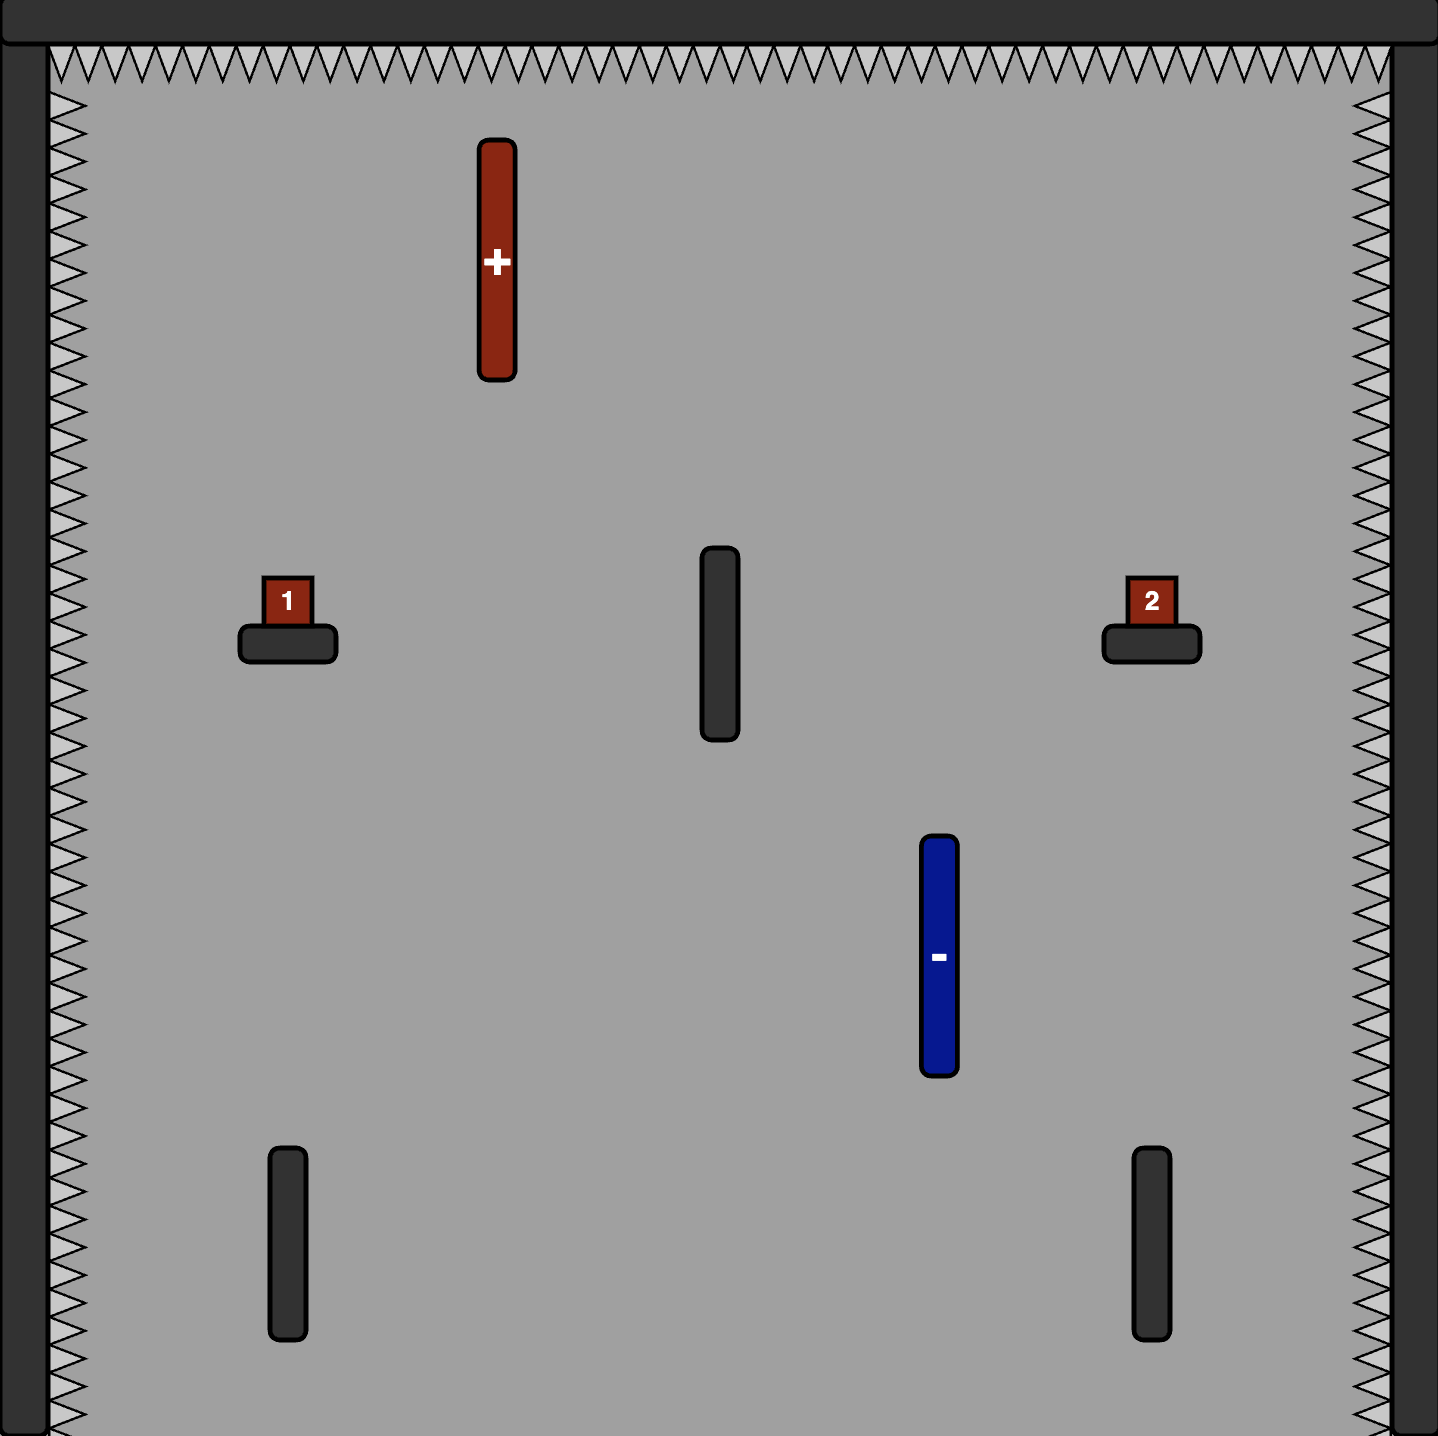
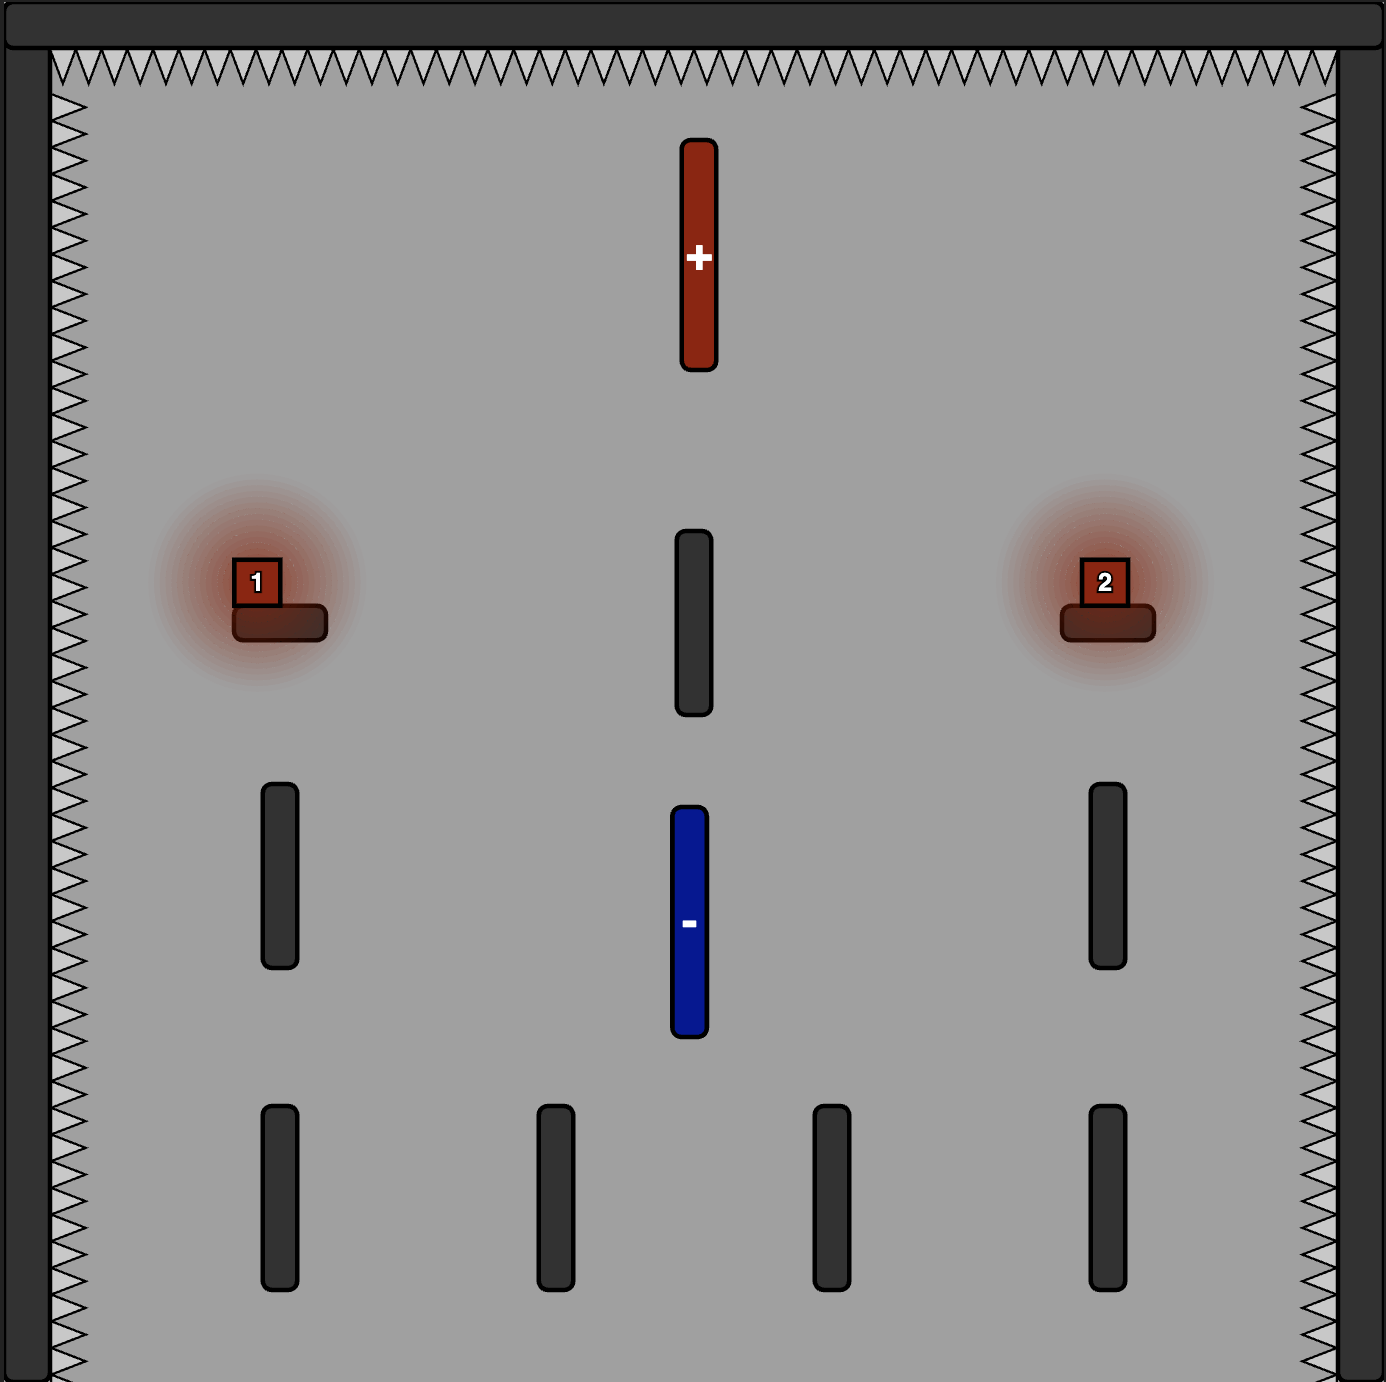
new map, background image, fixes

diff --git a/classes/maps/Charge_Chamber.js b/classes/maps/Charge_Chamber.js
@@ -1,0 +1,49 @@
+class Charge_Chamber extends Map {
+    constructor() {
+        super();
+        this.p1SpawnX = 120;
+        this.p1SpawnY = 540;
+        this.p2SpawnX = 480;
+        this.p2SpawnY = 540;
+        this.mapName = "Charge Chamber";
+        this.imgPath = "assets/Charge_Chamber.png";
+        this.openPowerUpLocs = [
+            [300, 120],
+            [300, 455]
+        ];
+        this.filledPowerUpLocs = [];
+    }
+
+    addElements(platforms, spikes, polarElements) {
+
+        // Borders
+        append(platforms, new Platform(10, 300, 20, 600, 0));
+        append(platforms, new Platform(590, 300, 20, 600, 0));
+        append(platforms, new Platform(300, 10, 600, 20, 0));
+
+        // Ground platforms
+        append(platforms, new Platform(120, 560, 140, 20, 0));
+        append(platforms, new Platform(480, 560, 140, 20, 0));
+        append(platforms, new Platform(300, 560, 140, 20, 0));
+
+        // Crossing polarity pair
+        let pL = new Platform(200, 300, 160, 20, 1);
+        let pR = new Platform(400, 300, 160, 20, -1);
+
+        append(platforms, pL);
+        append(platforms, pR);
+        append(polarElements, pL);
+        append(polarElements, pR);
+
+        // spike platform
+        append(platforms, new Platform(300, 410, 120, 45, 0));
+
+        // Raised side platforms
+        append(platforms, new Platform(120, 180, 120, 20, 0));
+        append(platforms, new Platform(480, 180, 120, 20, 0));
+
+        append(spikes, new Spikes(300, 438, 120, 15, 4, 0, 2, color(255)));
+        append(spikes, new Spikes(300, 382, 120, 15, 4, 0, 0, color(255)));
+        
+    }
+}

diff --git a/classes/scenes/GameScene.js b/classes/scenes/GameScene.js
@@ -36,6 +36,8 @@ class GameScene extends Scene {
     append(this.polarElements, this.plr1);
     append(this.polarElements, this.plr2);
 
+    this.backgroundImg = loadImage("assets/BackgroundImg.png");
+
     this.map.addElements(this.platforms, this.spikes, this.polarElements);
     // create objects
     
@@ -46,6 +48,7 @@ class GameScene extends Scene {
     if(this.paused) {
       // pause menu
       updateAndDrawElements(this.UIElements, true, this);
+      if(this.exit) {return new TitleScene(this.audioController);}
       return;
     }
 
@@ -98,16 +101,19 @@ class GameScene extends Scene {
     }
 
     updateAndDrawElements(this.UIElements, true, this);
-
-    if(this.exit) {return new TitleScene(this.audioController);}
   }
   
   drawArena() {
     // TODO: better design?
-    background(200, 0, 0);
-    fill(160);
+    image(this.backgroundImg, -200, 0, 1000, 600);
+    fill(0, 0, 0,  100);
+    rect(300, 300, 600, 600);
     strokeWeight(0);
-    rect(300, 300, this.fieldSize, this.fieldSize);
+    fill(255, 0, 0, 198);
+    rect(0, 300, (600 - this.fieldSize), 600);
+    rect(600, 300, (600 - this.fieldSize), 600);
+    rect(300, 0, this.fieldSize, (600 - this.fieldSize));
+    rect(300, 600, this.fieldSize, (600 - this.fieldSize));
     
   }
 

diff --git a/classes/maps/Pillars.js b/classes/maps/Pillars.js
@@ -34,7 +34,7 @@ class Pillars extends Map {
         append(platformsArr, spawn2);
 
         let pillar1 = new Platform(120, 110, 15, 100, 1, true, [120, 110, 480, 110, 500, 1]);
-        let pillar2 = new Platform(480, 400, 15, 100, -1, true, [120, 400, 480, 400, 500, 2]);
+        let pillar2 = new Platform(460, 400, 15, 100, -1, true, [140, 400, 460, 400, 500, 2]);
         append(platformsArr, pillar1);
         append(platformsArr, pillar2);
         append(polarElementsArr, pillar1);
@@ -43,6 +43,13 @@ class Pillars extends Map {
         append(platformsArr, new Platform(300, 270, 15, 80, 0));
         append(platformsArr, new Platform(120, 520, 15, 80, 0));
         append(platformsArr, new Platform(480, 520, 15, 80, 0));
+
+        append(platformsArr, new Platform(240, 520, 15, 80, 0));
+        append(platformsArr, new Platform(360, 520, 15, 80, 0));
+
+        append(platformsArr, new Platform(120, 380, 15, 80, 0));
+        append(platformsArr, new Platform(480, 380, 15, 80, 0));
+
  
 
     }

diff --git a/classes/TransitionManager.js b/classes/TransitionManager.js
@@ -1,12 +1,12 @@
 class TransitionManager {
-    constructor(scene) {
+    constructor(audioController) {
         this.active = false;
         this.progress = 0;        // 0 → 1
         this.speed = 0.02;        // slide speed
         this.shakeTime = 0;
         this.shakeDuration = 67;
         this.onComplete = null;
-        this.scene = scene;
+        this.audioController = audioController;
     }
 
     start(callback) {
@@ -25,7 +25,7 @@ class TransitionManager {
         // Trigger shake on collision
         if (this.progress >= 1 && this.shakeTime === 0) {
             this.shakeTime = this.shakeDuration;
-            this.scene.audioController.playScreenTransitionSound();
+            this.audioController.playScreenTransitionSound();
             if (this.onComplete) this.onComplete();
         }
 

diff --git a/classes/scenes/TitleScene.js b/classes/scenes/TitleScene.js
@@ -20,7 +20,7 @@ class TitleScene extends Scene {
 
     this.audioController.init();
 
-    this.volumeSlider = createSlider(0, 1, 0.75, 0); 
+    this.volumeSlider = createSlider(0, 1, this.audioController.volume, 0); 
     this.volumeSlider.parent("game-div"); 
     this.volumeSlider.position(-500, -500);
     this.volumeSlider.size(200, 40);
@@ -88,7 +88,7 @@ class TitleScene extends Scene {
   startGame() {
     console.log("start game") 
     this.nextScene = (new MapSelectScene(this.audioController));
-    // this.nextScene = new GameScene(new Example_Map()); // override select scene
+    // this.nextScene = new GameScene(new Practice_Range()); // override select scene
   }
   
   runLoop(dT) {

diff --git a/index.html b/index.html
@@ -27,9 +27,10 @@
     <script src="classes/MagnetismWave.js"></script>
     <script src="classes/TransitionManager.js"></script>
     <script src="classes/AudioController.js"></script>
-    <script src="classes/maps/Example_Map.js"></script>
+    <script src="classes/maps/Practice_Range.js"></script>
     <script src="classes/maps/Polka_Dots.js"></script>
     <script src="classes/maps/Pillars.js"></script>
+    <script src="classes/maps/Charge_Chamber.js"></script>
     <script src="classes/GameElements/Platform.js"></script>
     <script src="classes/GameElements/Spikes.js"></script>
     <script src="classes/Player.js"></script>

diff --git a/sketch.js b/sketch.js
@@ -11,6 +11,8 @@ let transition;
 
 let canvas;
 
+let mapBuilding =  false; // new Charge_Chamber(); // false, or map to initiate to
+
 function preload() {
   icon = loadImage("assets/placeholder-icon.png");
 }
@@ -25,7 +27,13 @@ function setup() {
   lastTime = millis();
   activeScene.init();
 
-  transition = new TransitionManager(activeScene);
+  transition = new TransitionManager(activeScene.audioController);
+
+  if(mapBuilding != false) {
+    let a = activeScene.audioController;
+    activeScene = new GameScene(mapBuilding, 10, false, 0, a);
+    activeScene.init();
+  }
 }
 
 function draw() {

diff --git a/classes/maps/Practice_Range.js b/classes/maps/Practice_Range.js
@@ -1,12 +1,12 @@
-class Example_Map extends Map {
+class Practice_Range extends Map {
     constructor() {
         super();
         this.p1SpawnX = 110;
         this.p1SpawnY = 460;
         this.p2SpawnX = 490;
         this.p2SpawnY = 460;
-        this.mapName = "Example Map";
-        this.imgPath = "assets/Example_Map.png";
+        this.mapName = "Practice Range";
+        this.imgPath = "assets/Practice_Range.png";
         this.openPowerUpLocs = [[300, 160], [300, 280]];
         this.filledPowerUpLocs = [];
     }

diff --git a/classes/scenes/MapSelectScene.js b/classes/scenes/MapSelectScene.js
@@ -3,7 +3,7 @@ class MapSelectScene extends Scene {
     super();
     this.audioController = audioController;
     this.UIElements = [];
-    this.maps = [Example_Map, Polka_Dots, Pillars]; //array of maps in rotation
+    this.maps = [Practice_Range, Polka_Dots, Pillars, Charge_Chamber]; //array of maps in rotation
     this.mapImgs = [];
     this.currentIx = 0;
     this.imgIcon = new ImgIcon(300, 200, 110, 110, 0, icon);

diff --git a/classes/Player.js b/classes/Player.js
@@ -12,7 +12,7 @@ class Player {
     this.size = 20;
     this.maxVX = 6;
     this.maxVY = 6;
-    this.overMaxSpeedPenaltyFactor = 0.95;
+    this.overMaxSpeedPenaltyFactor = 0.98;
     this.torque = 0.4;
     this.gravity = 0.25;
     this.jumpForce = 5;
